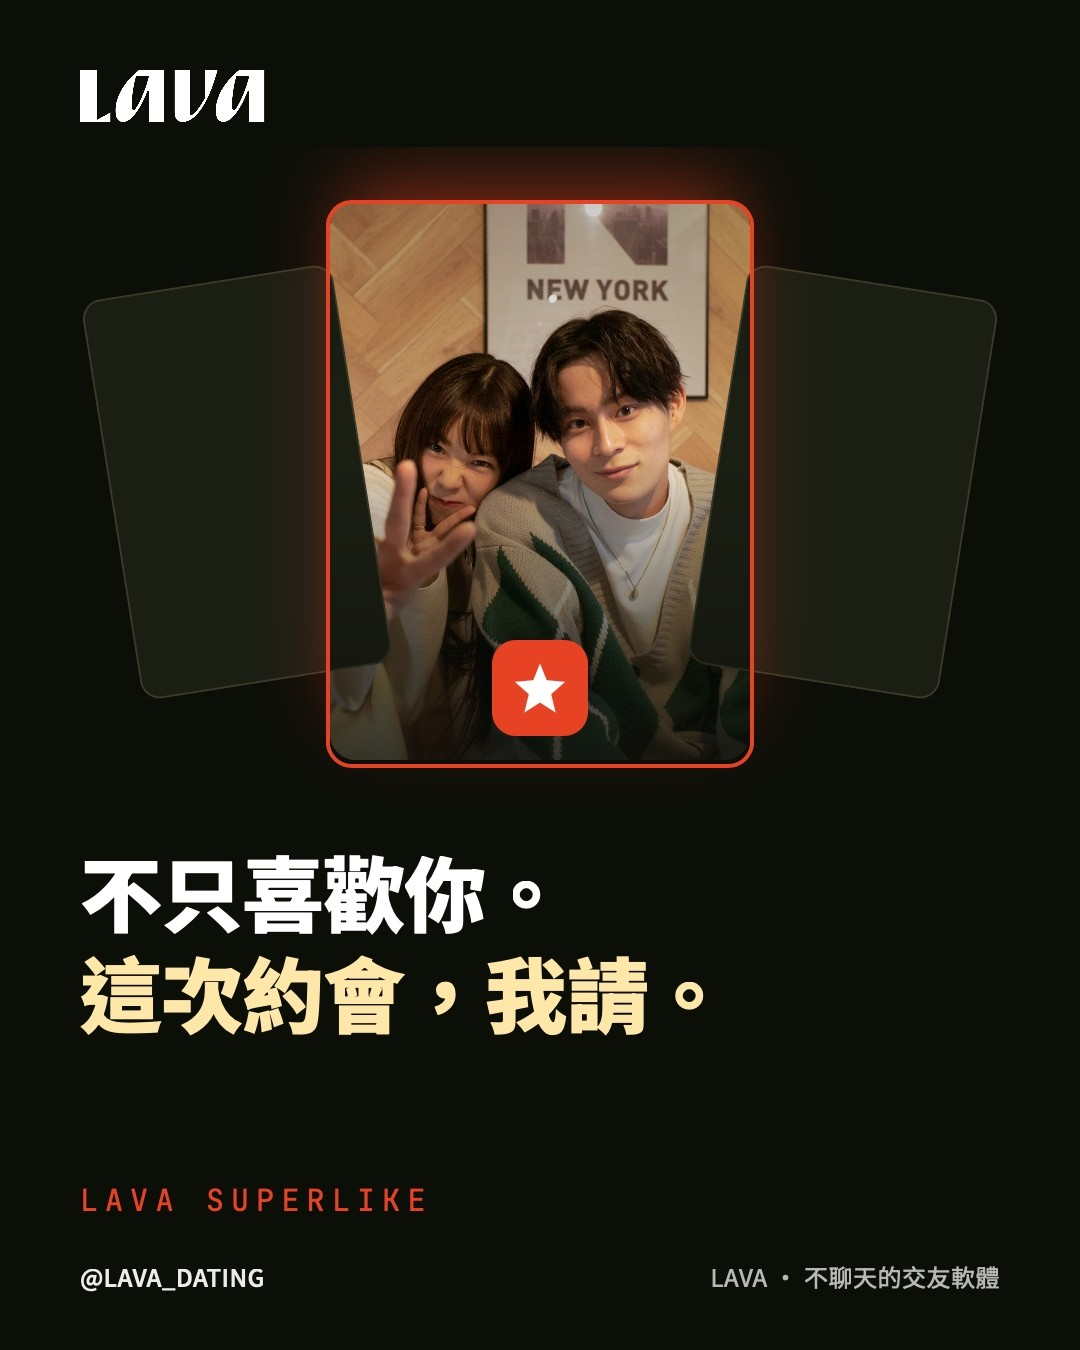
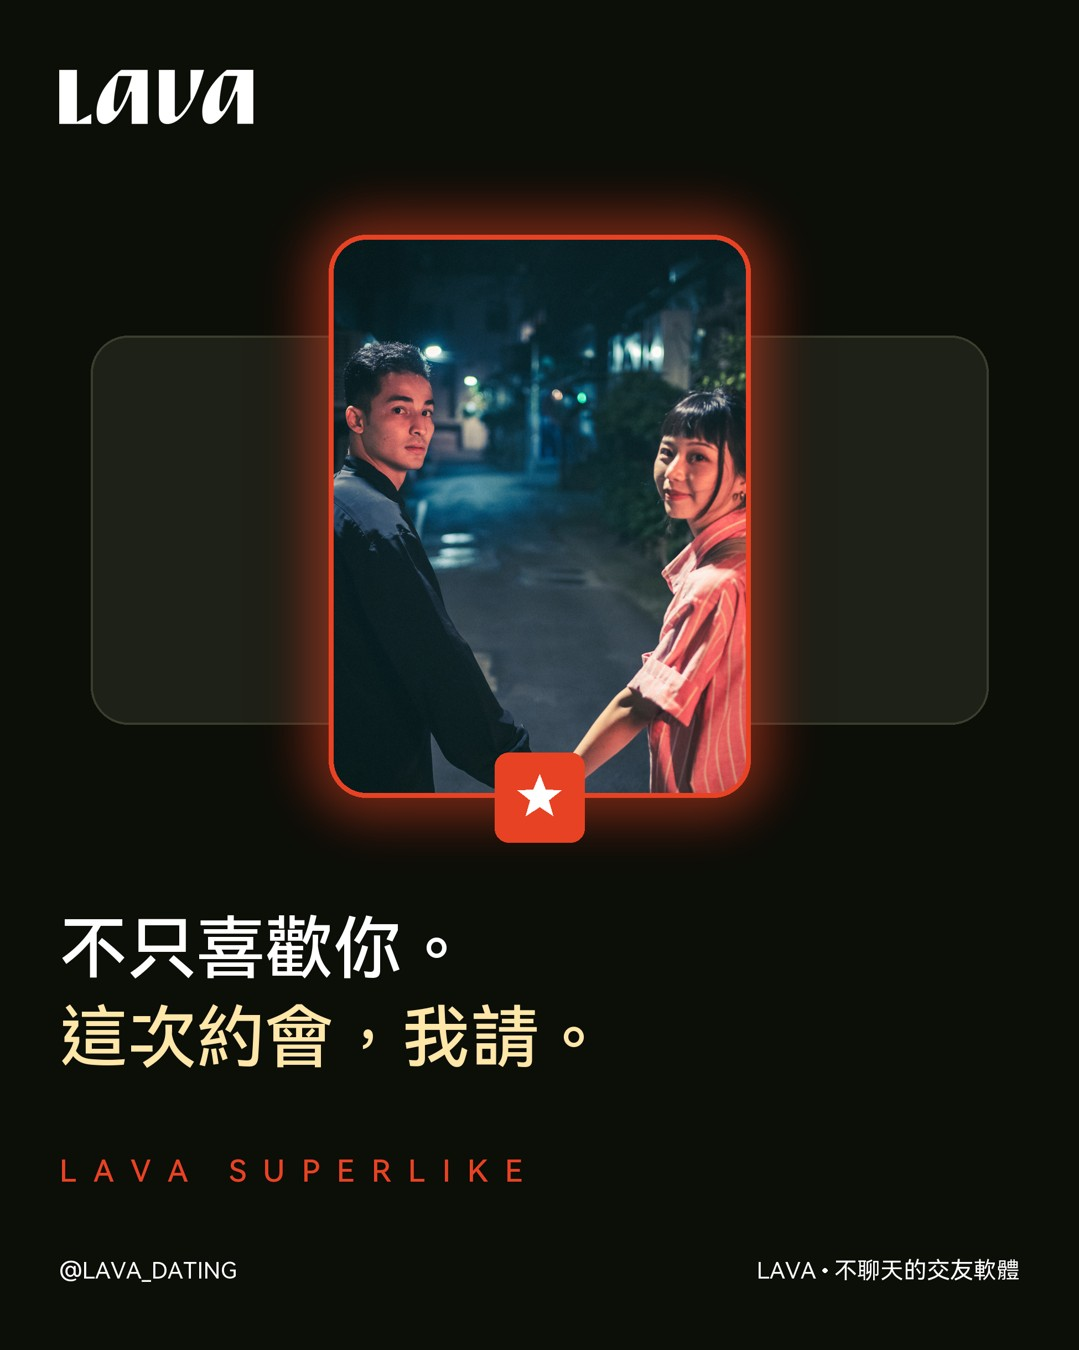
產品版型：版面常數改用原稿實測值，Superlike 篇改為引擎渲染
版面（全部量自 Jesse 2026-08-23 原稿 1080×1350，不是憑感覺調）：
- hero 卡 0.62→0.75 寬高比、總高 0.419H。0.62 是為 App 截圖訂的，
  放真人照片會把臉切掉兩側（Jesse：五官要清晰可見、不要裁切）
- diagram 紅卡半高 0.135→0.155H（原稿 0.276W×0.310H）
- price 紅卡 0.20→0.290H；標籤 0.030→0.043W；數字 0.115→0.235W
- price 註腳移出內容帶，改貼版面底部（原稿 0.862H），長句自動斷行
- notify 橫幅帶 0.205→0.2325H（原稿 3.06:1，舊值 3.47:1 太扁，臉塞不進去）
- cta 字標與標語間距 S_XS→S_SM；標語改可設定，預設「讓社交回歸線下」
- 新增 footer_top()：兩處各算一份遲早分岔

其他：
- frame_specs 改讀同一組常數，操控室取景框不會再與引擎各算一套
- pick_product_photos：cid 別寫死 "abc"，--per-slide >3 會 IndexError
- check_typography：有 render_spec 就照驗，只有連 spec 都沒有的純外部成品才跳過
- Superlike 篇改為引擎渲染，spec 進版控供重出

diff --git a/scripts/render_product.py b/scripts/render_product.py
@@ -64,17 +64,30 @@ GAP_STAGE  = S_XL          # 內容帶 → 大標
 GAP_TITLE  = S_LG          # 大標底 → footer 上緣
 BAND_FILL  = 0.94          # 視覺元件最多吃掉內容帶的比例，四周留呼吸
 
+# 媒體版位的比例與高度：全部量自 Jesse 原稿（1080×1350），不是憑感覺調的。
+# hero 原本寫 0.62「手機比例」是為了放 App 截圖；改放真人照片後太窄，
+# 臉會被切掉兩側（Jesse 2026-08-23：五官要清晰可見、不要裁切）。
+HERO_ASPECT = 0.75         # 原稿卡框 0.394W × 0.419H → 寬高比 0.75
+HERO_H      = 0.419        # 卡片總高佔 H
+NOTIFY_H    = 0.2325       # 橫幅媒體帶總高佔 H（原稿 3.06:1，舊值 0.205 等於 3.47:1 太扁）
+
 PRODUCT_TPL_ID = "tpl-product-intro-carousel"
 DESIGN_LAYOUTS = ("diagram", "price", "cta")   # 引擎繪製的設計版面，不需要照片
+
+
+def footer_top():
+    """footer 文字的上緣。render_slide 與 lay_price 都要用它定位，
+    寫兩份遲早會分岔（self-check A9：同一個數字只能有一個來源）。"""
+    return H - int(H * 0.052) - int(W * 0.022)
 
 
 def frame_specs():
     """媒體版位的取景框比例（寬/高）。操控室裁切預覽的唯一數字來源——
     比例只在這裡宣告，JS 端只消費存進 posts.json 的數字（A9：不准兩邊各算一套）。"""
     return {
-        "hero": 0.62,                                        # lay_hero 手機卡 cw = ch*0.62
+        "hero": HERO_ASPECT,
         "notify_portrait": 0.60,                             # lay_notify 直式手機卡
-        "notify_landscape": round((W * (1 - 2 * MX)) / (H * 0.205), 3),
+        "notify_landscape": round((W * (1 - 2 * MX)) / (H * NOTIFY_H), 3),
     }
 CTA_STOCK = E.CTA_STOCK
 # 徽章在 1080×1440 公版上的實測座標（純 PIL 掃描非黑列得出，2026-08-17）
@@ -262,8 +275,8 @@ def _star(d, cx, cy, r, fill=WHITE):
 def lay_hero(img, d, slide, shot, dark, band):
     """封面：中央截圖卡＋紅框光暈＋星標徽章，兩側襯卡。整組置中於內容帶。"""
     top, bot = band; bh = bot - top
-    ch = int(min(H * 0.245, bh * BAND_FILL / 2))   # ch＝半高
-    cw = int(ch * 0.62)                            # 手機比例
+    ch = int(min(H * HERO_H / 2, bh * BAND_FILL / 2))   # ch＝半高
+    cw = int(ch * HERO_ASPECT)
     cx, cy = W // 2, (top + bot) // 2
     box = [cx - cw, cy - ch, cx + cw, cy + ch]
     r = int(W * CARD_R)
@@ -291,7 +304,9 @@ def lay_diagram(img, d, slide, shot, dark, band):
     """卡片堆疊圖解：兩張淡卡 →（箭頭）→ 紅色重點卡。"""
     top, bot = band
     cy = (top + bot) // 2
-    ch = int(min(H * 0.135, (bot - top) * BAND_FILL / 2))
+    # 0.155 是量出來的，不是調出來的：Jesse 原稿（1080×1350）紅卡佔 0.276W × 0.310H，
+    # 半高即 0.155H，而 cw/ch 實測 0.712 與既有的 0.72 一致（2026-08-23）。
+    ch = int(min(H * 0.155, (bot - top) * BAND_FILL / 2))
     cw = int(ch * 0.72); r = int(W * 0.028)
     lx = int(W * 0.30)
     for i in range(2):
@@ -336,7 +351,7 @@ def lay_notify(img, d, slide, shot, dark, band):
         bx0, bx1, by1 = int(W * MX), W - int(W * MX), box[3] - int(ch * 0.30)
     else:
         bx0, bx1 = int(W * MX), W - int(W * MX)
-        card_h = int(min(H * 0.205, bh * BAND_FILL - over))
+        card_h = int(min(H * NOTIFY_H, bh * BAND_FILL - over))
         by0 = top + (bh - card_h - over) // 2
         by1 = by0 + card_h
         if shot:
@@ -370,10 +385,12 @@ def lay_price(img, d, slide, shot, dark, band):
     top, bot = band; bh = bot - top
     bx0, bx1 = int(W * MX), W - int(W * MX)
     note = (slide.get("price_note") or "").strip()
-    f_note = ImageFont.truetype(E.F_REG, int(W * 0.026))
-    note_h = (int(W * 0.026) + S_MD) if note else 0
-    card_h = int(min(H * 0.20, bh * BAND_FILL - note_h))
-    by0 = top + (bh - card_h - note_h) // 2
+    # 註腳不佔內容帶：原稿裡它貼在版面底部（實測 0.862H，footer 之上），
+    # 不是黏在紅卡下緣。掛在帶內會同時吃掉卡片高度、又讓卡片被推離視覺中心。
+    fs_note = int(W * 0.036)
+    f_note = ImageFont.truetype(E.F_REG, fs_note)
+    card_h = int(min(H * 0.290, bh * BAND_FILL))    # 原稿實測 0.290H（舊值 0.20 偏小）
+    by0 = top + (bh - card_h) // 2
     by1 = by0 + card_h
     r = int(W * 0.030)
     img = _glow(img, [bx0, by0, bx1, by1], r, RED, spread=0.03, alpha=110)
@@ -382,13 +399,14 @@ def lay_price(img, d, slide, shot, dark, band):
     px = bx0 + int(W * 0.032)
     lab = (slide.get("price_label") or "").strip()
     amt = (slide.get("price_amount") or "").strip()
-    inner = by0 + S_MD
+    fs_lab = int(W * 0.043)                          # 原稿實測（舊值 0.030 偏小）
+    inner = by0 + S_SM
     if lab:
-        f = ImageFont.truetype(E.F_MED, int(W * 0.030))
+        f = ImageFont.truetype(E.F_MED, fs_lab)
         d.text((px, inner), lab, font=f, fill=WHITE)
-        inner += int(W * 0.030) + S_SM
+        inner += fs_lab + S_XS
     if amt:
-        fs = int(W * 0.115)
+        fs = int(W * 0.235)                          # 原稿實測字高約舊值的兩倍
         while fs > int(W * 0.05):
             f = ImageFont.truetype(E.F_MED, fs)
             if (d.textlength(amt, font=f) <= (bx1 - bx0) - 2*int(W*0.032)
@@ -397,7 +415,11 @@ def lay_price(img, d, slide, shot, dark, band):
             fs = int(fs * 0.93)
         d.text((px, inner), amt, font=f, fill=WHITE)
     if note:
-        d.text((px, by1 + S_MD), note, font=f_note, fill=_accent(dark))
+        # 貼齊 footer 上方（原稿實測 0.862H），由下往上長，長句自動斷行
+        lines = _recolor(E.wrap_semantic(note, _accent(dark), f_note, bx1 - bx0, d),
+                         _accent(dark), _accent(dark))
+        lh = int(fs_note * 1.4)
+        E.draw_lines(d, lines, bx0, footer_top() - S_LG - len(lines) * lh, f_note, lh)
     return img, d
 
 
@@ -445,9 +467,9 @@ def _render_cta(slide, out_path, dark=True):
     lg = Image.open(E.LOGO if dark else E.LOGO.replace("white", "black")).convert("RGBA")
     lw = int(W * 0.42); lg = lg.resize((lw, int(lg.height * lw / lg.width)))
     img.paste(lg, (int(W * MX), y), lg); d = ImageDraw.Draw(img)
-    y += lg.height + S_XS
+    y += lg.height + S_SM                    # 原本 S_XS，字標與標語黏太緊（Jesse 2026-08-23）
     fs_tag = int(W * 0.062)
-    d.text((int(W * MX), y), "不聊天的交友軟體",
+    d.text((int(W * MX), y), (slide.get("tagline") or "讓社交回歸線下"),
            font=ImageFont.truetype(E.F_MED, fs_tag), fill=_fg(dark))
     y += int(fs_tag * 1.25) + S_MD
     d.line([(int(W*MX), y), (int(W*MX) + int(W*0.075), y)], fill=RED, width=int(H*0.004))
@@ -458,9 +480,9 @@ def _render_cta(slide, out_path, dark=True):
         fs_h = int(W * 0.052)
         d.text((int(W * MX), y), hl, font=ImageFont.truetype(E.F_MED, fs_h), fill=_accent(dark))
         y += int(fs_h * 1.25)
-    footer_top = H - int(H * 0.052) - int(W * 0.022)
+    ftop = footer_top()
     _pill(d, (slide.get("cta_button") or "打開 Lava"), int(W * MX),
-          max(y + S_XL, footer_top - S_LG - int(W * 0.036 + W*0.036*1.24)), dark)
+          max(y + S_XL, ftop - S_LG - int(W * 0.036 + W*0.036*1.24)), dark)
     draw_footer(d, dark)
     img.save(out_path)
     return out_path
@@ -479,7 +501,7 @@ def render_slide(slide, shot_path, out_path, idx=None, total=None):
     draw_pagination(d, idx, total, dark)
 
     shot = Image.open(shot_path) if (shot_path and os.path.exists(shot_path)) else None
-    footer_top = H - int(H * 0.052) - int(W * 0.022)
+    ftop = footer_top()
 
     # 封面沒有導言，改用下方的 eyebrow 標籤；其餘版型 display_copy 走導言
     eyebrow = (slide.get("eyebrow") or "").strip() if layout == "hero" else ""
@@ -494,7 +516,7 @@ def render_slide(slide, shot_path, out_path, idx=None, total=None):
     lines, f_t, fs_t = title_lines(slide.get("heading") or "", d, dark)
     lh = int(fs_t * 1.30)
     title_h = len(lines) * lh
-    title_top = footer_top - GAP_TITLE - eb_h - title_h
+    title_top = ftop - GAP_TITLE - eb_h - title_h
 
     band = (lead_bottom + GAP_LEAD, title_top - GAP_STAGE)
     img, d = LAYOUTS[layout](img, d, slide, shot, dark, band)

diff --git a/scripts/check_typography.py b/scripts/check_typography.py
@@ -143,18 +143,24 @@ def main():
             continue
         if not only and p.get("status") == "published":
             continue
+        # 產品版型走自己的 spec（data/product-specs/），不是 WF01 草稿。有 spec 就照驗，
+        # 只有「連 spec 都沒有」的純外部成品才准跳過——否則自家渲染的稿會永遠不被檢查。
+        rs = p.get("render_spec")
+        if rs and os.path.exists(os.path.join(sc.REPO, rs)):
+            jf = os.path.join(sc.REPO, rs)
         # 外部設計稿沒有 WF01 草稿檔，套「找不到文案＝稿檔損毀」會誤判成事故。
         # 但也不能當成通過：排版是設計端做的，我們確實沒驗過，必須留成黃燈而不是綠燈。
-        if p.get("asset_origin"):
+        elif p.get("asset_origin"):
             results[p["id"]] = {"ts": sc._now_iso(), "pass": False, "issues": [
                 {"slide": None, "rule": "external_design", "severity": "warn",
                  "line": "外部設計稿，排版由交稿端負責，本檢查未驗"}]}
             print("⚪ %s：外部設計稿，排版未驗（非違規）" % p["id"][:30])
             continue
-        e = ls.get(p["id"]) or {}
-        jf = e.get("draft_json") or (e.get("draft_jsons") or {}).get("claude")
-        if not jf or not os.path.exists(jf):
-            broken.append((p["id"], "找不到文案")); continue
+        else:
+            e = ls.get(p["id"]) or {}
+            jf = e.get("draft_json") or (e.get("draft_jsons") or {}).get("claude")
+            if not jf or not os.path.exists(jf):
+                broken.append((p["id"], "找不到文案")); continue
         try:
             d = sc._read_json_retry(jf)
         except Exception as ex:

diff --git a/scripts/pick_product_photos.py b/scripts/pick_product_photos.py
@@ -103,7 +103,9 @@ def main():
                 sc = WORK_EDGE / max(im.size)
                 if sc < 1:
                     im = im.resize((int(im.width*sc), int(im.height*sc)), Image.LANCZOS)
-                cid = "abc"[got]
+                # 別寫死 "abc"：--per-slide 只要大於 3 就 IndexError（2026-08-23 選五官清楚
+                # 的照片、想一次看 14 張候選時炸掉）。候選數上限應該由參數決定，不是由字串長度。
+                cid = "abcdefghijklmnopqrstuvwxyz"[got]
                 out = os.path.join(a.outdir, "slide-%d%s.png" % (idx, cid))
                 im.save(out)
                 used.add(path); got += 1
